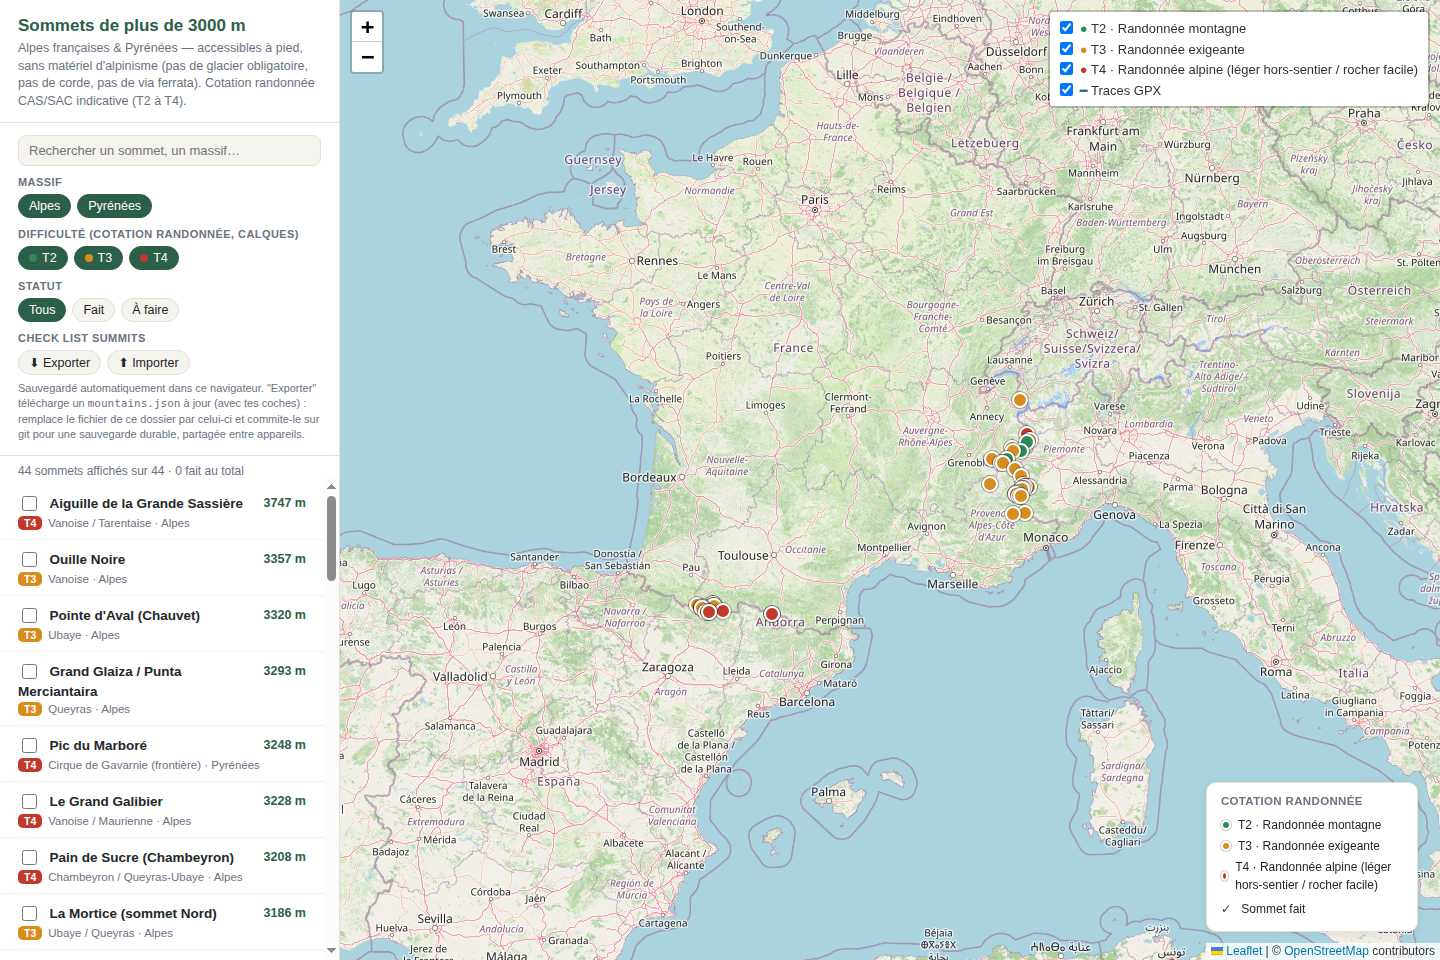
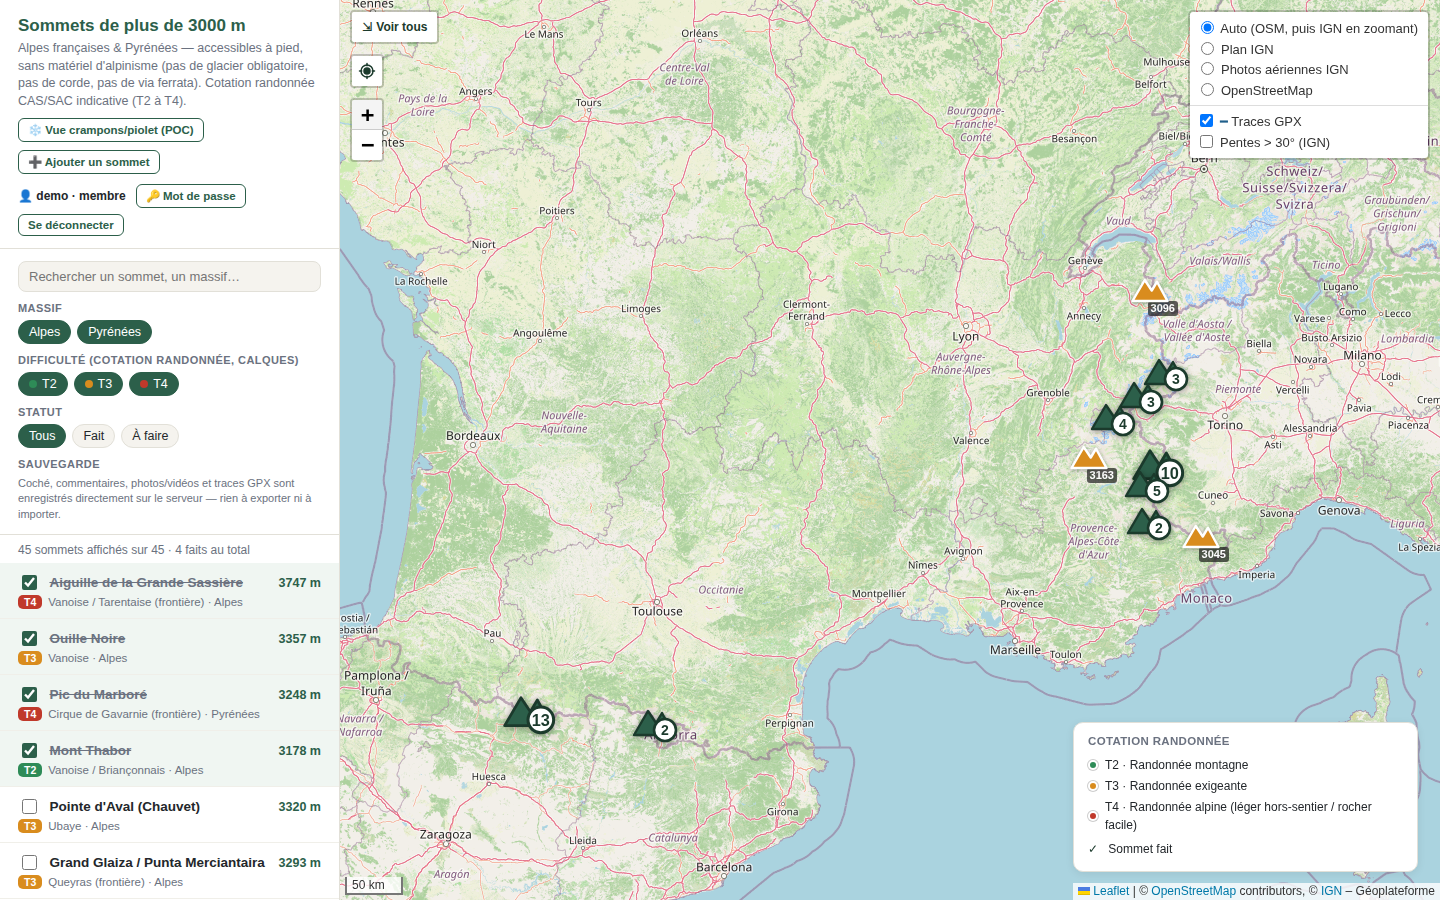
add better readme

diff --git a/static/js/panel.js b/static/js/panel.js
@@ -209,8 +209,8 @@ export function openPeakPanel(p, marker) {
   const wasHidden = panel.hidden;
   body.innerHTML = popupHtml(p);
   activePeakId = p.id;
+  panel.hidden = false; // avant bindPanelContent : la zone de commentaire mesure sa hauteur
   bindPanelContent(body, p);
-  panel.hidden = false;
   if (wasHidden) positionPanelNear(marker);
 }
 

diff --git a/tests/test_frontend.py b/tests/test_frontend.py
@@ -142,6 +142,8 @@ def test_done_and_comment_are_saved(open_page):
     open_peak(page, peak["name"])
     expect(page.locator("#peak-panel .pop-done-checkbox")).to_be_checked()
     expect(page.locator("#peak-panel .pop-comment-input")).to_have_value("Belle course")
+    # Hauteur mesurée panneau visible (sinon zone écrasée à 0 px à la première ouverture).
+    assert page.locator("#peak-panel .pop-comment-input").bounding_box()["height"] > 20
 
 
 def test_add_edit_and_delete_custom_peak(open_page):

diff --git a/README.md b/README.md
@@ -1,35 +1,94 @@
-# project3000summitFR
+<div align="center">
 
-Carte interactive (Leaflet + fonds OpenStreetMap) des sommets de plus de
-3000 m des **Alpes françaises** et des **Pyrénées françaises** accessibles
-à pied, sans matériel d'alpinisme (pas de glacier obligatoire, pas de
-corde, pas de via ferrata).
+<img src="static/icons/icon-192.png" width="96" alt="">
 
-## Aperçu
+# Sommets de plus de 3000 m
 
-![Vue générale de la carte](screenshots/01-vue-generale.png)
+**Tous les sommets de plus de 3000 m des Alpes et des Pyrénées françaises accessibles à pied —
+sans glacier obligatoire, sans corde, sans via ferrata — sur une carte, avec ton carnet de
+courses personnel.**
 
-## Architecture
+[![CI](https://github.com/celtill0s/project3000summitFR/actions/workflows/ci.yml/badge.svg)](https://github.com/celtill0s/project3000summitFR/actions/workflows/ci.yml)
+[![Release APK](https://img.shields.io/github/v/release/celtill0s/project3000summitFR?include_prereleases&label=APK%20Android&color=1b3a2c)](https://github.com/celtill0s/project3000summitFR/releases)
+![Python](https://img.shields.io/badge/Python-3.13%2B-3776ab?logo=python&logoColor=white)
+![Leaflet](https://img.shields.io/badge/Leaflet-1.9-199900?logo=leaflet&logoColor=white)
+![Auto-hébergeable](https://img.shields.io/badge/auto--h%C3%A9bergeable-Docker%20%C2%B7%20Raspberry%20Pi-2496ed?logo=docker&logoColor=white)
 
-Le projet est composé de deux parties :
+[Aperçu](#-aperçu) · [Démarrage rapide](#-démarrage-rapide) · [Auto-hébergement](#-auto-hébergement-sur-son-propre-serveur) · [Fonctionnalités](#-fonctionnalités) · [Catalogue](#-modifier-le-catalogue) · [Appli Android](android/README.md)
 
-- **`static/`** — le frontend (carte Leaflet, `index.html`, page de
-  connexion `login.html`) et le **catalogue public** des sommets
-  (`static/mountains.json` : nom, altitude, coordonnées, cotation, notes,
-  source — versionné dans ce dépôt, partagé avec tout le monde).
-- **`server/`** — un petit backend Python (bibliothèque standard
-  uniquement ; Pillow en option pour les miniatures, voir plus bas) :
-  `app.py` sert le site et fusionne le catalogue avec l'**espace personnel**
-  de l'utilisateur connecté (sommets faits, commentaires, photos/vidéos,
-  traces GPX) ; `auth.py` gère les comptes et les sessions. Tout est stocké
-  dans `data/` — **jamais dans ce dépôt** (voir `.gitignore`).
+<img src="screenshots/01-vue-generale.png" alt="Vue générale : la carte des sommets regroupés par secteur et la liste triée par altitude">
 
-Ce découpage permet à n'importe qui de cloner ce dépôt pour héberger sa
-propre instance (avec le même catalogue de sommets, ou le sien), sans
-jamais récupérer les données personnelles de quelqu'un d'autre — chaque
-instance garde les siennes localement, hors git.
+</div>
 
-## Comptes et rôles
+## 📸 Aperçu
+
+<table>
+  <tr>
+    <td width="50%" valign="top">
+      <img src="screenshots/02-fiche-sommet.png" alt="Fiche d'un sommet sur le Plan IGN">
+      <p align="center"><b>Fiche de chaque sommet</b><br>cotation CAS/SAC détaillée, source, sommet fait, commentaire, photos/vidéos, trace GPX — sur fond Plan IGN</p>
+    </td>
+    <td width="50%" valign="top">
+      <img src="screenshots/03-ajout-sommet.gif" alt="Ajout d'un sommet personnel : formulaire, placement à la souris, validation">
+      <p align="center"><b>Tes propres sommets</b><br>formulaire, puis placement en faisant glisser le marqueur, et validation — visibles de toi seul</p>
+    </td>
+  </tr>
+  <tr>
+    <td width="50%" valign="top">
+      <img src="screenshots/05-mobile.png" alt="Version mobile : carte plein écran et liste">
+      <p align="center"><b>Sur téléphone</b><br>carte plein écran, liste à la demande ; installable (PWA) ou en <a href="android/README.md">appli Android</a>, utilisable hors-ligne</p>
+    </td>
+    <td width="50%" valign="top">
+      <img src="screenshots/04-crampons.png" alt="Vue crampons et piolet">
+      <p align="center"><b>Vue crampons/piolet</b><br>les sommets faisables hors saison avec crampons et piolet, grade alpin confirmé sur camptocamp</p>
+    </td>
+  </tr>
+</table>
+
+## 🚀 Démarrage rapide
+
+Juste Python 3, sans Docker ni dépendance :
+
+```bash
+git clone https://github.com/celtill0s/project3000summitFR.git && cd project3000summitFR
+python3 server/app.py create-admin moi   # une fois : crée ton compte
+python3 server/app.py                    # puis ouvre http://localhost:8000
+```
+
+Les données sont stockées dans `data/` (créé automatiquement, jamais commité). Pour un vrai
+serveur, voir [Auto-hébergement](#-auto-hébergement-sur-son-propre-serveur).
+
+## 🧭 Architecture
+
+```mermaid
+flowchart LR
+    subgraph Navigateur["📱 Navigateur · PWA · appli Android"]
+        UI["static/ — carte Leaflet,<br>modules ES natifs"]
+    end
+    subgraph Serveur["🐍 server/ — Python, bibliothèque standard"]
+        APP["app.py<br>routes + droits"] --> AUTH["auth.py<br>comptes, sessions"]
+        APP --> STORE["storage.py<br>catalogue + espaces"]
+        APP --> FILES["files.py<br>GPX, miniatures"]
+    end
+    CAT[("static/mountains.json<br>catalogue public, dans git")]
+    DATA[("data/<br>comptes, espaces perso<br>jamais dans git")]
+    UI <-->|HTTPS · cookie de session| APP
+    STORE --> CAT
+    STORE --> DATA
+```
+
+- **`static/`** — le frontend (carte Leaflet, `index.html`, page de connexion `login.html`) et le
+  **catalogue public** des sommets (`static/mountains.json` : nom, altitude, coordonnées,
+  cotation, notes, source — versionné dans ce dépôt, partagé avec tout le monde).
+- **`server/`** — un petit backend Python (bibliothèque standard uniquement ; Pillow en option
+  pour les miniatures) qui sert le site et fusionne le catalogue avec l'**espace personnel** de
+  l'utilisateur connecté (sommets faits, commentaires, photos/vidéos, traces GPX, sommets
+  ajoutés). Tout est stocké dans `data/` — **jamais dans ce dépôt** (voir `.gitignore`).
+
+N'importe qui peut donc cloner ce dépôt pour héberger sa propre instance (avec le même
+catalogue, ou le sien), sans jamais récupérer les données personnelles de quelqu'un d'autre.
+
+## 👥 Comptes et rôles
 
 Tout le site est derrière une **page de connexion** (aucun accès sans
 compte). Trois rôles :
@@ -76,19 +135,7 @@ docker compose exec app python3 server/app.py list-users
 (sans Docker : `python3 server/app.py …`). Le mot de passe est demandé au
 clavier.
 
-## Utiliser en local (développement / test rapide)
-
-Sans Docker, avec juste Python 3 :
-
-```bash
-python3 server/app.py create-admin moi   # une fois : crée ton compte
-python3 server/app.py
-```
-
-puis ouvrir <http://localhost:8000> et se connecter. Les données sont
-stockées dans `data/` (créé automatiquement à côté du dépôt).
-
-## Auto-hébergement sur son propre serveur
+## 🐳 Auto-hébergement sur son propre serveur
 
 Le projet fournit un `Dockerfile` + `docker-compose.yml` (appli + Caddy
 en reverse proxy) prêts à l'emploi. Prérequis : Docker et Docker Compose
@@ -145,6 +192,9 @@ cd project3000summitFR
 
 ### Mise à jour d'une instance d'avant les comptes
 
+<details>
+<summary>Instances installées avant l'arrivée des comptes (Basic Auth de Caddy, dossier <code>secrets/</code>)</summary>
+
 Les versions précédentes protégeaient le site par la Basic Auth de Caddy
 (fichiers `secrets/`), avec un seul espace de données. Après `./update.sh` :
 
@@ -171,6 +221,8 @@ Les versions précédentes protégeaient le site par la Basic Auth de Caddy
 
 Conseil : fais une sauvegarde de `data/` avant (`scripts/backup.sh`).
 
+</details>
+
 ### Sauvegarde
 
 Tout ce qui compte pour ton instance (progression, commentaires,
@@ -192,7 +244,10 @@ Exemple de crontab (tous les jours à 3 h) :
 d'une suppression accidentelle, pas d'une panne matérielle. Copie
 `BACKUP_ROOT` ailleurs pour ça.
 
-## Contenu
+## 📁 Organisation du dépôt
+
+<details>
+<summary>Ce que contient chaque dossier</summary>
 
 - **`static/index.html`** — la carte : panneau latéral (recherche,
   filtres par massif/difficulté/statut, liste triée par altitude, faits
@@ -222,12 +277,14 @@ d'une suppression accidentelle, pas d'une panne matérielle. Copie
   `photos/<id>/`, `gpx/<id>.gpx`, `thumbs/` (miniatures, régénérables :
   inutile de les sauvegarder).
 - **`android/`** — l'appli Android (voir `android/README.md`), construite et
-  publiée par `.github/workflows/release.yml` à chaque tag `vX.Y.Z`.
+  publiée par `.github/workflows/release.yml` à chaque tag `vX.Y.Z` posé sur `main`.
 - **`sources.md`** — méthodologie complète : comment chaque sommet a été
   sélectionné, comment sa cotation a été déterminée, sources utilisées et
   limites connues (inclut l'audit critique du 2026-09-01).
 
-## Fonctionnalités
+</details>
+
+## ✨ Fonctionnalités
 
 - **Calques par difficulté** : chaque niveau de cotation (T2, T3, T4) est
   un calque Leaflet indépendant, à afficher/masquer via le contrôle en
@@ -280,7 +337,7 @@ d'une suppression accidentelle, pas d'une panne matérielle. Copie
 - **Vue crampons/piolet** : sommets faisables hors saison avec crampons
   et piolet (champ `crampon` du catalogue).
 
-## Modifier le catalogue
+## 📝 Modifier le catalogue
 
 Éditer `static/mountains.json` directement (tableau JSON, un objet par
 sommet). Chaque entrée suit ce schéma :
@@ -316,17 +373,29 @@ tirets.
 `pytest` valide automatiquement le catalogue (champs, cotations,
 coordonnées, unicité des ids) — lancé aussi par la CI à chaque push.
 
-Tests : `pip install -r requirements-dev.txt`, une fois
-`python -m playwright install chromium`, puis `pytest`. Ils couvrent le
-serveur (`tests/test_server_app.py`), le catalogue (`tests/test_catalog.py`)
-et le site dans un vrai navigateur (`tests/test_frontend.py` : connexion,
-filtres, sommet fait, commentaire, ajout/modification/suppression d'un
-sommet, bandeau d'espace plein, consultation admin). Sans Chromium, ces
-derniers sont simplement ignorés.
-
 (Les champs `done`, `comment`, `photos`, `gpx` ne font **pas** partie du
 catalogue : ce sont des données personnelles, propres à chaque utilisateur
 et gérées par le serveur dans `data/users/<identifiant>/progress.json`.)
 
 Voir `sources.md` pour le barème de cotation et les sources de référence à
 utiliser pour toute nouvelle entrée.
+
+## 🧪 Développement et tests
+
+```bash
+python3 -m venv .venv && .venv/bin/pip install -r requirements-dev.txt
+.venv/bin/python -m playwright install chromium   # une fois : navigateur des tests du site
+.venv/bin/python -m pytest -q                      # serveur, catalogue et site dans un vrai navigateur
+```
+
+| Fichier | Ce qui est testé |
+|---|---|
+| `tests/test_server_app.py` | routes, droits de chaque rôle sur chaque route, comptes, sessions, uploads, quota, sommets perso |
+| `tests/test_catalog.py` | le catalogue `static/mountains.json` (champs, cotations, coordonnées, ids uniques) |
+| `tests/test_frontend.py` | le site dans Chromium : connexion, filtres, sommet fait, commentaire, ajout/modification/suppression d'un sommet, bandeau d'espace plein, consultation admin (ignorés si Chromium est absent) |
+
+La CI (GitHub Actions) lance tout ça à chaque push, plus le lint du JavaScript (ESLint), la
+construction de l'image Docker et celle de l'APK.
+
+Pour essayer sans toucher à tes données : `DATA_DIR=/tmp/essai PORT=8765 python3 server/app.py`
+(après un `create-admin` avec le même `DATA_DIR`).

diff --git a/android/README.md b/android/README.md
@@ -36,12 +36,13 @@ l'ancienne, sans perdre la connexion.
 ## Publier une release
 
 Pousser un tag déclenche `.github/workflows/release.yml`, qui construit l'APK, le signe et
-l'attache à une Release GitHub. Il faut d'abord, **une seule fois**, créer la clé de signature
-et la confier à GitHub (étapes 1 et 2).
+l'attache à une Release GitHub — **seulement si le commit tagué est sur `main`** ; sinon le
+workflow s'arrête avec une erreur explicite. Il faut d'abord, **une seule fois**, créer la clé
+de signature et la confier à GitHub (étapes 1 et 2).
 
-Circuit : on développe sur la branche **`devel`**, on publie une **bêta** depuis `devel` pour
-tester sur le téléphone, puis on fusionne dans **`main`** — ce que le serveur déploie
-(`update.sh`) — et on publie la **version finale** depuis `main`.
+Circuit : tout se passe sur **`main`**. On pousse ses changements, on publie une **bêta**
+(tag `vX.Y.Z-beta.N`) pour tester sur le téléphone, puis la **version finale** (tag `vX.Y.Z`)
+quand elle convient. Le serveur, lui, se met à jour avec `update.sh`.
 
 ### 1. Créer la clé de signature (une fois pour toutes)
 
@@ -76,10 +77,10 @@ sur l'écran de connexion. Sans elle, le champ est vide et l'adresse se saisit u
 l'APK publié dans les Releases est public, et une adresse préremplie y est lisible par qui le
 télécharge. Aucune adresse d'instance n'est écrite dans le code du dépôt.
 
-### 3. Publier une bêta (depuis `devel`)
+### 3. Publier une bêta
 
 ```bash
-git switch devel
+git switch main && git pull
 git tag v1.0.0-beta.1
 git push origin v1.0.0-beta.1
 ```
@@ -87,18 +88,15 @@ git push origin v1.0.0-beta.1
 Quelques minutes plus tard, une Release marquée **pré-version** apparaît avec l'APK. Bêtas
 suivantes : `v1.0.0-beta.2`, `-beta.3`… (jusqu'à 98).
 
-> L'APK n'est qu'une coquille : la carte vient du serveur, donc de `main`. Une bêta testée
-> contre le serveur de production valide la partie native (connexion, hors-ligne, GPS,
-> photos, déconnexion…), mais les ajouts côté site pour l'appli (`static/js/app-bridge.js` :
-> bouton retour, enregistrement des GPX) n'y sont actifs qu'une fois fusionnés dans `main` et
-> déployés.
+> L'APK n'est qu'une coquille : la carte vient du serveur. Une bêta valide la partie native
+> (connexion, hors-ligne, GPS, photos, déconnexion…) ; les ajouts côté site pour l'appli
+> (`static/js/app-bridge.js` : bouton retour, enregistrement des GPX) n'y sont actifs qu'une
+> fois le serveur mis à jour (`update.sh`).
 
-### 4. Publier la version finale (depuis `main`)
+### 4. Publier la version finale
 
 ```bash
-git switch main
-git merge devel
-git push origin main          # puis ./update.sh sur le serveur
+git switch main && git pull
 git tag v1.0.0
 git push origin v1.0.0
 ```
